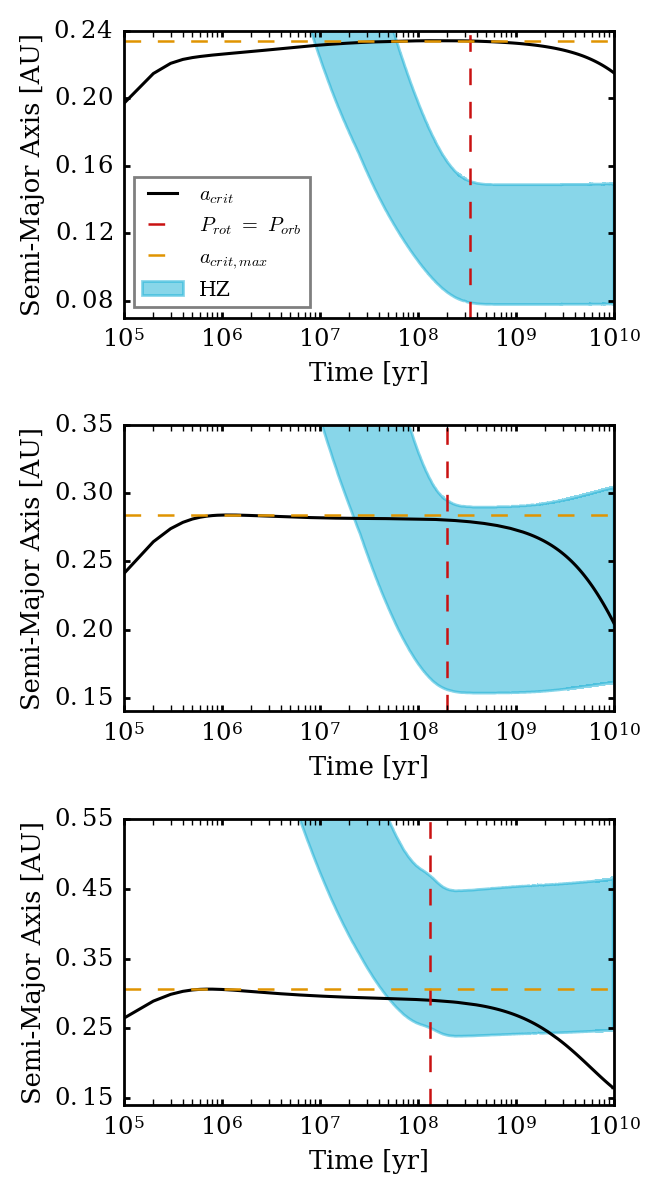
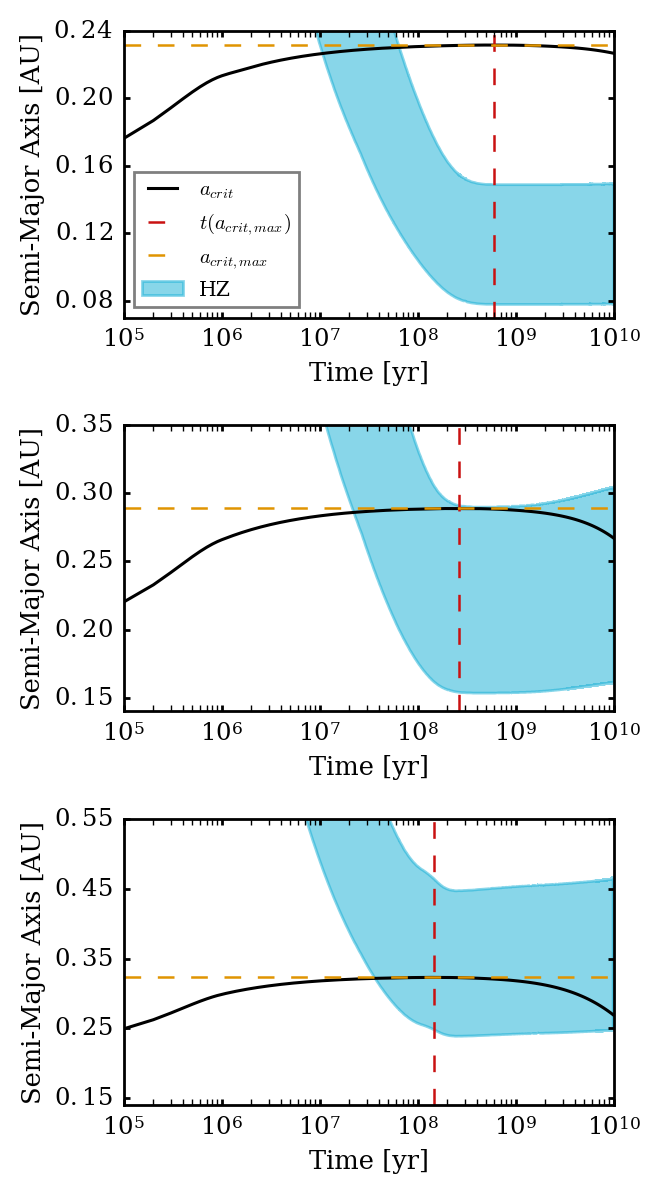
STEEP_CTL --> STEEP. Changed the initial orbital period in HZ_Evolution. Created e_crit in K47_Eccentricities.

diff --git a/K47_Eccentricities/makeplot.py b/K47_Eccentricities/makeplot.py
@@ -249,6 +249,40 @@ total_lock_times = Lock_Times_Primary + Lock_Times_Secondary
 #Labeling the value of the vertical dashed line
 vline = special_ecc[0]
 
+#Eccentrcity in which K47 b begins inside acrit according to Holman & Wiegert's a_crit equation
+
+a_star = 0.080 #AU, always 7.0 days
+a_crit = 0.2956 #AU, which is also a_cbp
+
+a_ratio = a_crit/a_star
+m1 = 1.043 # Solar masses, mass of primary star
+m2 = 0.362 # Solar masses, mass of secondary star
+mu = m2/(m1+m2)
+c = 1.60 +4.21*mu -5.09*mu**2 - a_ratio
+b = 5.1 - 4.27*mu
+a = -2.22 + 4.61*mu**2
+
+d = b**2 - 4*a*c # discriminant
+
+if d < 0:
+    print("The Holaman & Wiegert equation has no real solution")
+elif d == 0:
+    x = (-b+np.sqrt(d))/2*a
+    print("The Holaman & Wiegert equation has one solutions: ", x)
+    if x >= 0 and x < 1:
+        e_crit = x
+else:
+    x1 = (-b+np.sqrt(d))/(2*a)
+    x2 = (-b-np.sqrt(d))/(2*a)
+    print("The Holaman & Wiegert equation has two solutions: ", x1, " and", x2)
+    if x1 >= 0 and x1 < 1:
+        e_crit = x1
+    if x2 >= 0 and x2 < 1:
+        e_crit = x2    
+        
+e_crit = round(e_crit, 2)
+print("e_crit:", e_crit)
+
 #Plotting maximum difference between a_crit and a_cbp over initial binary eccentricity
 axes[0].plot(eccentricity, a_crit_minus_a_cbp,
             lw = lw_plot, color = color, ls = "-",
@@ -269,15 +303,18 @@ axes[0].legend(loc = "lower right")
 #Plotting the time in which the difference between a_crit and a_cbp reached it maximum
 axes[1].plot(special_ecc, time_a_crit_equals_a_cbp,
             lw = lw_plot, color = color, ls = "-",
-            label = "Time " + r"$a_{crit} = a_{CBP}$")
+            label = r"$a_{crit} = a_{CBP}$")
 axes[1].axvline(vline, lw = lw_vline, color = "k", 
                 ls = "--", label = r"$e_0 = $" + str(vline))
+axes[1].axvline(e_crit, lw = lw_vline, color = vpl.colors.purple, 
+                ls = "--", label = r"$e_{crit} = $" + str(e_crit))
 
 #Format
 axes[1].set_ylim(min(time_a_crit_equals_a_cbp), 
                  max(time_a_crit_equals_a_cbp))
 axes[1].set_ylabel("Instability Timescale" + " [Myr]", 
                    fontsize = fontsize_axis)
+axes[1].legend(loc = (0.4, 0.58))
 
 
 #Plotting Tidal-lock times of the primary and secondary star
@@ -297,7 +334,7 @@ axes[2].legend(loc = "upper right")
 
 #Looping some formats that will be the same on all three plots
 for n in range(nrows):
-    axes[n].set_xlabel("Eccentricity", fontsize = fontsize_axis)
+    axes[n].set_xlabel("Initial Eccentricity", fontsize = fontsize_axis)
     axes[n].set_xlim(0.1, 0.5)
     axes[n].set_xticks([0.05*i + 0.1 for i in range(9)])
     axes[n].tick_params(axis = 'both', which = 'major', 
@@ -319,4 +356,3 @@ if (sys.argv[1] == 'png'):
 end_time = datetime.now()
 print(end_time)
 print('Runtime: {}'.format(end_time - start_time))
-

diff --git a/HZ_Evolution/makeplot.py b/HZ_Evolution/makeplot.py
@@ -34,13 +34,6 @@ fig, axes = plt.subplots(ncols=1, nrows=3, sharey=False)
 data = ["0pt15_StellarMass", "0pt30_StellarMass", 
 	"0pt45_StellarMass"]
 
-#Time (in seconds) when body stars tidally locked (identical stars lock at the same time)
-sec_to_yrs = (3600*24*365)**(-1)
-lock_0pt15 = 1.062805e+16 * sec_to_yrs
-lock_0pt30 = 6.288010e+15 * sec_to_yrs
-lock_0pt45 = 4.205003e+15 * sec_to_yrs
-tidal_lock_times = [lock_0pt15, lock_0pt30, lock_0pt45]
-
 #Defining plot values
 lw_plot = 1.1
 lw_horizontal = 0.9
@@ -58,6 +51,17 @@ for sim in range(len(data)):
     hz_cbp_rg = output.secondary.HZLimRunaway
     hz_cbp_mg = output.secondary.HZLimMaxGreenhouse
     a_crit = output.secondary.CriticalSemiMajorAxis
+    LockTime = output.secondary.LockTime
+    for t in range(len(a_crit)):
+        if a_crit[t] == max(a_crit):
+            t_max = time[t] # Time in which max(a_crit) occurred
+            break
+    if LockTime[-1] < 0:
+        LockTime = 0
+        print("The stars of " + data[sim] + " never tidally locked during the evolution.")
+    else:
+        LockTime = LockTime[-1]*1e-6 # converts from Myr to yr
+        print("LockTime of " + data[sim] + ":",LockTime)
 
     axes[sim].plot(time, a_crit, lw = lw_plot, 
                    label = r"$a_{crit}$", color = "k", 
@@ -68,11 +72,18 @@ for sim in range(len(data)):
                            color = vpl.colors.pale_blue, 
                            alpha = .5, label = "HZ", 
                            zorder = 0, rasterized = True) # shades pale blue in hz boundaries
-    axes[sim].axvline(tidal_lock_times[sim], lw = lw_vertical, 
-                      ls = "--", 
-                      label = r"$P_{rot}$" + " " + r"$=$" + " " + r"$P_{orb}$", 
-                      color = vpl.colors.red, 
-                      zorder = 1, rasterized = True)
+    if LockTime > 0:
+        axes[sim].axvline(LockTime, lw = lw_vertical, 
+                          ls = "--", 
+                          label = r"$P_{rot}$" + " " + r"$=$" + " " + r"$P_{orb}$", 
+                          color = vpl.colors.red, 
+                          zorder = 1, rasterized = True)
+    else:
+        axes[sim].axvline(t_max, lw = lw_vertical, 
+                          ls = "--", 
+                          label = r"$t(a_{crit,max})$", 
+                          color = vpl.colors.red, 
+                          zorder = 1, rasterized = True)
     axes[sim].axhline(max(a_crit), lw = lw_horizontal, 
                       ls = "--", label = r"$a_{crit, max}$", 
                       color = vpl.colors.orange, zorder = 2, rasterized = True)

diff --git a/STEEP/makeplot.py b/STEEP/makeplot.py
@@ -127,9 +127,9 @@ for n in range(nrows):
 
 fig.tight_layout()
 if (sys.argv[1] == 'pdf'):
-    plt.savefig('STEEP_CTL.pdf', bbox_inches="tight", 
+    plt.savefig('STEEP.pdf', bbox_inches="tight", 
                 dpi = 200)
 if (sys.argv[1] == 'png'):
-    plt.savefig('STEEP_CTL.png', bbox_inches="tight",
+    plt.savefig('STEEP.png', bbox_inches="tight",
                dpi = 200)
 
